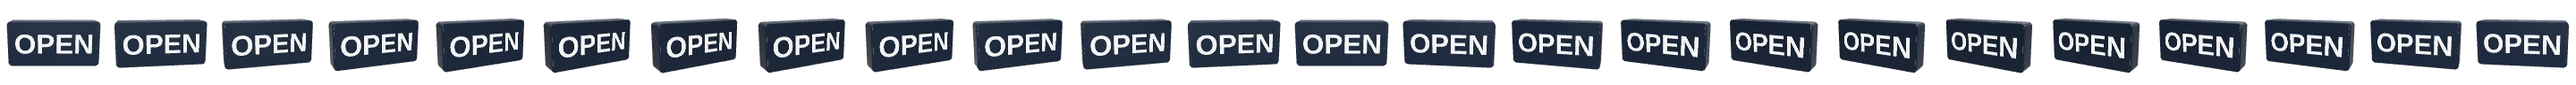
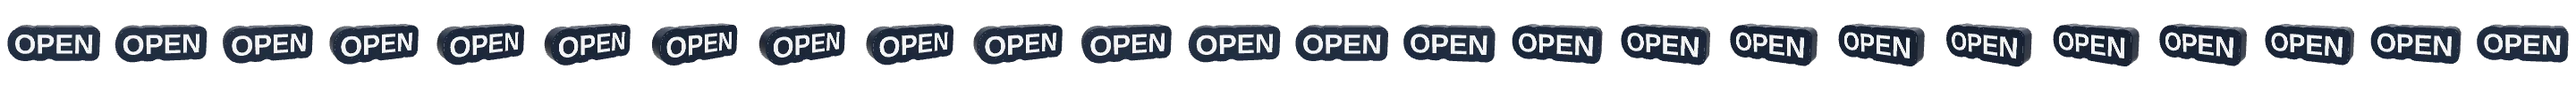
Sign boxes that follow the letters, with the cable out the back at one end
The sign enclosure's box is now, by default, the word's own outline: the
lettering grown by the margin, the gaps closed, the counters filled, and
far-apart lines tied together -- one rounded shape hugging the word, like
a channel-letter sign, only as big as the word needs. The rectangle stays
as an option, and the only one the wall mounts fit.

The cable leaves by the back at the right- or left-hand end, through a
notch in the lid's edge that the wall closes into a hole, placed where the
lid is widest near that end. The bottom-wall notch stays as an option and
now finds the bottom of any outline. The sign's tile icon is re-rendered
in the new shape.

Claude-Session: https://claude.ai/code/session_01PeehgHdDDPF9HxDfvra4HT

Changed region(s): [[0.0, 0.625, 1.0, 0.8438], [0.0, 0.2188, 1.0, 0.4062]]

diff --git a/public/index.html b/public/index.html
@@ -499,6 +499,17 @@
 
   <section>
     <h2>3 &middot; How it looks</h2>
+    <label class="field" data-for="sign" data-light="sign_shape"><span>Box shape</span>
+      <select id="sign_shape">
+        <option value="letters">Follows the letters</option>
+        <option value="box">Rectangle</option>
+      </select>
+    </label>
+    <p class="hint" data-for="sign">Follows the letters: the box is the word's own outline &mdash; every
+       letter grown by the margin, the gaps between them closed and the insides of the O's filled,
+       so the sign is one rounded shape hugging the word, the way a channel-letter sign is. The two
+       sliders below are then the most room the word can have, and the box comes out as big as the
+       word needs. Rectangle is the plain box, and the one the wall mounts fit.</p>
     <div class="field" data-for="stencil sign" data-light="plate"><span id="plate_label">Plate</span>
       <div class="slider"><input type="range" id="plate_w" min="30" max="250" step="5" value="120"><output id="plate_w_v">120 mm</output></div>
     </div>
@@ -542,25 +553,34 @@
     </div>
     <p class="hint" data-for="sign">Five lines of a 0.4 mm nozzle at the default: stiff enough to hold the
        lid without bowing, and opaque enough that the light leaves by the letters.</p>
-    <div class="field" data-for="sign" data-light="cable"><span>Cable notch</span>
+    <label class="field" data-for="sign" data-light="cable"><span>Cable out</span>
+      <select id="cable_side">
+        <option value="right">Through the back, right-hand end</option>
+        <option value="left">Through the back, left-hand end</option>
+        <option value="bottom">Through the bottom wall</option>
+      </select>
+    </label>
+    <div class="field" data-for="sign" data-light="cable"><span>Cable width</span>
       <div class="slider"><input type="range" id="cable" min="0" max="12" step="0.5" value="6"><output id="cable_v">6 mm</output></div>
     </div>
-    <p class="hint" data-for="sign">A square notch in the back edge of the bottom wall for the lead. It is
-       cut a lid deeper than it looks, so the cable passes under a lid that stays whole. 0 closes the
-       wall.</p>
+    <p class="hint" data-for="sign">Right and left are as you look at the lit front. Through the back, the
+       lead leaves by a notch in the edge of the lid at that end: open to the edge, so the cable drops
+       in rather than being threaded, and closed into a hole by the wall once the lid is in &mdash; so
+       nothing shows from the front. Through the bottom wall is a notch in the back edge of the
+       wall, cut a lid deeper so the cable passes under a lid that stays whole. 0 leaves no way out.</p>
     <label class="check" data-for="sign" data-light="lid"><input type="checkbox" id="lid" checked><span>Back lid</span></label>
     <p class="hint" data-for="sign">A plate that drops into a rebate in the back and stops flush on the
        ledge it leaves &mdash; a friction fit, so you can get it off again to change the strip. Stick the
        LEDs to the inside of it; it prints that face down, which is the flat one. Off leaves the back
        open.</p>
-    <label class="field" data-for="sign" data-light="mount"><span>Wall mount</span>
+    <label class="field" data-for="sign" data-shape="box" data-light="mount"><span>Wall mount</span>
       <select id="mount">
         <option value="none">None</option>
         <option value="tape">Tape pads</option>
         <option value="screw">Screw posts</option>
       </select>
     </label>
-    <p class="hint" data-for="sign">The back of this box is a lid held in by friction, so tape or a screw
+    <p class="hint" data-for="sign" data-shape="box">The back of this box is a lid held in by friction, so tape or a screw
        on the lid holds the <em>lid</em> &mdash; the case pulls off it and leaves the back on the wall.
        Both mounts here are part of the case instead: a post that rises off the inside of the face,
        comes up through a hole in the lid and finishes flush with the back, so the load goes into the
@@ -791,7 +811,7 @@ const FIELDS = ["name", "company", "phone", "role", "email", "kind", "tap", "tag
                 "tag_h", "tag_thick", "tag_mode", "rise", "link", "batch", "bed",
                 "look", "layout", "cap", "ring_d", "font",
                 "plate_w", "plate_h", "margin", "bridge", "thick",
-                "depth", "wall", "diffuse", "cable", "mount",
+                "depth", "wall", "diffuse", "cable", "mount", "sign_shape", "cable_side",
                 "pet_style", "pet_shape", "pet_size", "pet_sides", "pet_note",
                 "pet_collar", "pet_slot", "pet_link"];
 const COLOURS = ["c0", "c1", "c2", "c3"];
@@ -1653,7 +1673,8 @@ function signReadout(line) {
     line("lit", `${info.lit_area}% of the face, narrowest stroke ${mm(info.stroke)} mm`),
     line("inside", `${mm(info.clear)} mm of clear air for the strip` +
                    (info.lid ? `, behind a ${mm(info.lid_thick)} mm lid` : ", back open")),
-    info.cable ? line("cable notch", `${mm(info.cable)} mm, bottom wall`) : "",
+    info.cable ? line("cable", `${mm(info.cable)} mm, ` + ({ right: "out the back, right-hand end",
+      left: "out the back, left-hand end", bottom: "through the bottom wall" }[info.cable_side] || "")) : "",
     line("uses", `${info.volume.toFixed(2)} cm&sup3;` +
                  (info.parts.length > 1 ? " over both parts" : "")),
     info.nozzle ? line("nozzle", `${info.nozzle} mm or finer`) : "",
@@ -1864,6 +1885,7 @@ document.querySelectorAll("p.hint").forEach((hint, i) => {
   mark.setAttribute("aria-expanded", "false");
   if (hint.dataset.for) { box.dataset.for = hint.dataset.for; delete hint.dataset.for; }
   if (hint.dataset.style) { box.dataset.style = hint.dataset.style; delete hint.dataset.style; }
+  if (hint.dataset.shape) { box.dataset.shape = hint.dataset.shape; delete hint.dataset.shape; }
   hint.replaceWith(box);
   box.append(mark, fold);
   fold.append(hint);
@@ -2026,6 +2048,11 @@ function petSize() {
   $("pet_size").value = PET_SIZES[key];
   $("pet_size").dispatchEvent(new Event("input"));
 }
+/* A box that follows the letters has no plain border for a mount to live in. */
+$("sign_shape").addEventListener("change", () => {
+  if ($("sign_shape").value === "letters") $("mount").value = "none";
+  shapeChosen();
+});
 $("pet_style").addEventListener("change", () => { petSize(); shapeChosen(); materialFor(); queue(); });
 $("pet_shape").addEventListener("change", () => { petSize(); queue(); });
 $("pet_sides").addEventListener("change", () => spoolsChosen());
@@ -2044,7 +2071,8 @@ function shapeChosen() {
   if (kind !== "pet" && product) setShot("model");
   for (const el of document.querySelectorAll("[data-for]"))
     el.hidden = !el.dataset.for.split(" ").includes(kind) ||
-                (kind === "pet" && !!el.dataset.style && el.dataset.style !== style);
+                (kind === "pet" && !!el.dataset.style && el.dataset.style !== style) ||
+                (kind === "sign" && !!el.dataset.shape && el.dataset.shape !== $("sign_shape").value);
   $("shape_note").textContent = {
     fob: "The one that lives on a keyring, with an NFC tag sealed inside it. It grows if the tag or the QR code needs more room than 62 \u00d7 34 mm leaves them \u2014 but all five lines on a fob come out small, so leave the title or the email off it.",
     pet: "A collar tag: the pet's name on the front and the phone number \u2014 and a QR code, if you want one \u2014 on the back. Every letter is inlaid flush, so nothing wears off, and all the colour changes happen in the first and last three layers.",
@@ -2060,7 +2088,8 @@ function shapeChosen() {
                                       name: "The word", pet: "What it says" }[kind] || "Who you are");
   spoolsChosen();
   // The stencil's two plate sliders are the sign's face.
-  $("plate_label").textContent = kind === "sign" ? "Face" : "Plate";
+  $("plate_label").textContent = kind !== "sign" ? "Plate"
+    : $("sign_shape").value === "letters" ? "Most room for the word" : "Face";
   // A sign is not glued and has no halves: it has a lid that comes off.
   const labels = kind === "sign" ? ["Put together", "Lid off", "On the plate"]
                                  : ["Glued up", "Pulled apart", "On the plate"];

diff --git a/src/signbox.py b/src/signbox.py
@@ -31,11 +31,12 @@ the STL and the app's viewer all take them unchanged.
 import numpy as np
 import trimesh
 from shapely import affinity
-from shapely.geometry import Point
+from shapely.geometry import Point, Polygon
 from shapely.geometry import box as box_2d
 from shapely.ops import unary_union
 
 import cards
+import nametag
 import stencil
 import typefaces
 
@@ -87,6 +88,24 @@ CLEARANCE = 0.2
 # takes up the top LID mm of it, so the notch is cut that much deeper and the
 # cable still gets its full CABLE mm.  0 leaves the wall closed.
 CABLE = 6.0
+
+# The shape of the box.  "letters" follows the word: the lettering grown by the
+# margin, the gaps between letters closed, the counters filled -- one rounded
+# outline hugging the word, the way a channel-letter sign does.  "box" is the
+# rounded rectangle.
+SHAPES = ("letters", "box")
+
+# How far the gaps between letters are bridged when the outline is drawn, on
+# top of the margin.  Big enough that a word comes out as one shape rather
+# than a row of islands, and it rounds every inside corner by as much.
+JOIN = 8.0
+
+# Where the cable leaves.  "right" and "left" are as seen from the front, and
+# go out through the back: a notch in the edge of the lid at that end, open
+# to the edge so the cable drops in rather than being threaded, and the wall
+# closes it into a hole once the lid is in.  "bottom" is the old way, a
+# notch in the back edge of the bottom wall.
+CABLE_SIDES = ("right", "left", "bottom")
 
 # Clear air between the diffuser and the lid the strip is stuck to.  Less than
 # this and you can count the LEDs through the letters.
@@ -204,10 +223,53 @@ def mount_posts(kind, w, h, wall, margin, radius, inner, room):
     return posts, posts, what
 
 
+def contour(letters, margin, join=JOIN):
+    """The outline of a box that follows the word: every letter grown by
+    `margin`, the gaps between them closed by `join` and the inside corners
+    rounded by as much, then the counters filled so it is one solid shape.
+
+    A word whose letters are further apart than the join -- two words on two
+    lines, say -- is tied together the way a name keyring's loose dot is.
+    """
+    grown = unary_union(letters).buffer(margin + join, quad_segs=16)
+    outline = grown.buffer(-join, quad_segs=16)
+    if outline.geom_type == "MultiPolygon":
+        outline, _ = nametag.tie_together(outline, width=2.0 * margin)
+        outline = outline.buffer(2.0, quad_segs=16).buffer(-2.0, quad_segs=16)
+    if outline.geom_type == "MultiPolygon":
+        outline = max(outline.geoms, key=lambda g: g.area)
+    return Polygon(outline.exterior).simplify(0.02)
+
+
+def cable_notch(lid_poly, cable, side, edge=EDGE):
+    """A notch `cable` wide in the edge of the lid, at the `side` end.
+
+    The lid is built face down like the rest, so the right-hand end as seen
+    from the front is the lid's -x end.  The notch is placed where the lid is
+    widest near that end, so a letter-shaped lid does not get it cut into a
+    sliver, and runs in from the edge a cable and a margin deep.
+    """
+    x0, y0, x1, y1 = lid_poly.bounds
+    reach = cable + 2.0 * edge + 4.0
+    if side == "right":
+        end, strip = x0, box_2d(x0 - 1.0, y0 - 1.0, x0 + reach, y1 + 1.0)
+    else:
+        end, strip = x1, box_2d(x1 - reach, y0 - 1.0, x1 + 1.0, y1 + 1.0)
+    near = lid_poly.intersection(strip)
+    if near.is_empty:
+        raise ValueError("no room at that end of the lid for the cable")
+    cy = near.centroid.y
+    deep = cable + edge
+    if side == "right":
+        return box_2d(end - 1.0, cy - cable / 2.0, end + deep, cy + cable / 2.0)
+    return box_2d(end - deep, cy - cable / 2.0, end + 1.0, cy + cable / 2.0)
+
+
 def build(text="", svg=None, font=None, w=W, h=H, depth=DEPTH, wall=WALL,
           diffuse=DIFFUSE, opaque=OPAQUE, margin=MARGIN, radius=RADIUS,
           chamfer=CHAMFER, lid=True, lid_thick=LID, clearance=CLEARANCE,
-          cable=CABLE, mount="none", colours=cards.COLOURS, label=""):
+          cable=CABLE, mount="none", colours=cards.COLOURS, label="",
+          shape="box", cable_side="bottom"):
     """One sign enclosure, as printable parts plus the numbers worth knowing.
 
     Returns ([case, lid], info) in cards.build()'s shape -- or ([case], info)
@@ -234,6 +296,17 @@ def build(text="", svg=None, font=None, w=W, h=H, depth=DEPTH, wall=WALL,
     if mount not in MOUNTS:
         raise ValueError(f"no such mount: {mount!r} -- it is one of "
                          + ", ".join(MOUNTS))
+    shape = (shape or "box").strip().lower()
+    if shape not in SHAPES:
+        raise ValueError(f"no such shape: {shape!r} -- it is one of " + ", ".join(SHAPES))
+    cable_side = (cable_side or "bottom").strip().lower()
+    if cable_side not in CABLE_SIDES:
+        raise ValueError(f"no such cable exit: {cable_side!r} -- it is one of "
+                         + ", ".join(CABLE_SIDES))
+    if shape == "letters" and mount != "none":
+        raise ValueError("the wall mounts live in the plain border of the rectangular "
+                         "box, and a box that follows the letters has none -- pick the "
+                         "rectangle to mount it, or stick it up by its back")
     colours = tuple(colours or cards.COLOURS)
 
     if depth <= front + lid_thick + 2.0:
@@ -245,14 +318,7 @@ def build(text="", svg=None, font=None, w=W, h=H, depth=DEPTH, wall=WALL,
                          f"{margin:g} mm margin")
 
     outer = cards.rounded_rect(w, h, radius)
-    inner = outer.buffer(-wall)                  # the cavity, and the lit area
-    if inner.is_empty or inner.geom_type != "Polygon":
-        raise ValueError(f"a {wall:g} mm wall leaves nothing inside a "
-                         f"{w:g} x {h:g} mm box")
     room = outer.buffer(-margin)
-
-    post_case, post_lid, mount_what = mount_posts(
-        mount, w, h, wall, margin, radius, inner, room)
 
     face = typefaces.face(font)
     if svg:
@@ -273,6 +339,20 @@ def build(text="", svg=None, font=None, w=W, h=H, depth=DEPTH, wall=WALL,
     shapes = [affinity.scale(p, -1.0, 1.0, origin=(0, 0)) for p in shapes]
     letters = stencil.pieces(unary_union(shapes))
 
+    if shape == "letters":
+        # The box is the word's own outline, and the face is only as big as
+        # that -- w and h were the most room the lettering could have.
+        outer = contour(letters, margin)
+        x0, y0, x1, y1 = outer.bounds
+        w, h = x1 - x0, y1 - y0
+    inner = outer.buffer(-wall)                  # the cavity, and the lit area
+    if inner.is_empty or inner.geom_type != "Polygon":
+        raise ValueError(f"a {wall:g} mm wall leaves nothing inside a "
+                         f"{w:g} x {h:g} mm box")
+
+    post_case, post_lid, mount_what = mount_posts(
+        mount, w, h, wall, margin, radius, inner, room)
+
     # The lid's rebate: the last lid_thick mm of the wall is taken back to its
     # outer half, and the step that leaves is what the lid sits on.
     rebate = inner.buffer(wall / 2.0)
@@ -287,13 +367,18 @@ def build(text="", svg=None, font=None, w=W, h=H, depth=DEPTH, wall=WALL,
         cuts += cards.prisms(
             list(step.geoms) if step.geom_type == "MultiPolygon" else [step],
             depth - lid_thick, lid_thick + 1.0)
-    if cable > 0:
+    if cable > 0 and cable_side == "bottom":
         if cable > inner.bounds[2] - inner.bounds[0]:
             raise ValueError(f"a {cable:g} mm cable notch is wider than the wall it "
                              f"goes through")
         # Open to the back and open to the outside: no bridge, no support, and
         # the cable drops in rather than being threaded.
-        notch = box_2d(-cable / 2.0, -h / 2.0 - 1.0, cable / 2.0, -h / 2.0 + wall + 1.0)
+        # At the bottom of the outline: the middle of a rectangle's bottom
+        # edge, or wherever a letter-shaped box comes lowest.
+        ox0, oy0, ox1, oy1 = outer.bounds
+        low = outer.intersection(box_2d(ox0 - 1.0, oy0 - 1.0, ox1 + 1.0, oy0 + 1.0))
+        nx = low.centroid.x if not low.is_empty else (ox0 + ox1) / 2.0
+        notch = box_2d(nx - cable / 2.0, oy0 - 1.0, nx + cable / 2.0, oy0 + wall + 1.0)
         cuts += cards.prisms([notch], depth - lid_thick - cable, lid_thick + cable + 1.0)
 
     # The face: the letters taken out of the opaque layer, and the diffuser
@@ -310,7 +395,8 @@ def build(text="", svg=None, font=None, w=W, h=H, depth=DEPTH, wall=WALL,
         lit_poly = inner.difference(unary_union(post_case).buffer(MOUNT_CLEAR))
     cuts += cards.prisms([lit_poly], front - diffuse, diffuse)
 
-    body = shell(w, h, radius, outer, inner, depth, front, chamfer)
+    body = shell(w, h, radius, outer, inner, depth, front,
+                 chamfer if shape == "box" else 0.0)
     if post_case:
         # Unioned before the cuts, so the cable notch goes through a pad in its
         # way rather than the cable having to.
@@ -341,6 +427,10 @@ def build(text="", svg=None, font=None, w=W, h=H, depth=DEPTH, wall=WALL,
         # than the lid, so the cable passes under a lid that stays whole --
         # which is what holds the cable in and keeps the light off the wall.
         face_poly = rebate.buffer(-clearance)
+        if cable > 0 and cable_side != "bottom":
+            face_poly = face_poly.difference(cable_notch(face_poly, cable, cable_side))
+            if face_poly.geom_type == "MultiPolygon":
+                face_poly = max(face_poly.geoms, key=lambda g: g.area)
         if post_lid:
             face_poly = face_poly.difference(
                 unary_union(post_lid).buffer(MOUNT_CLEAR))
@@ -374,6 +464,7 @@ def build(text="", svg=None, font=None, w=W, h=H, depth=DEPTH, wall=WALL,
         lid=bool(lid), lid_thick=round(lid_thick, 2) if lid else None,
         clearance=round(clearance, 2) if lid else None,
         cable=round(cable, 2) if cable else None,
+        cable_side=cable_side if cable else None, shape=shape,
         mount=mount, mount_what=mount_what, mounts=len(post_case),
         margin=round(margin, 2), radius=round(radius, 2),
         face=cards.FACE, chamfer=round(chamfer, 2),

diff --git a/src/app.py b/src/app.py
@@ -55,7 +55,8 @@ GEOMETRY = ("kind", "name", "company", "phone", "role", "email", "tap", "tag_w",
             "plate_w", "plate_h", "margin", "bridge", "thick",
             "depth", "wall", "diffuse", "lid", "cable", "mount",
             "pet_shape", "pet_style", "pet_size", "pet_sides", "pet_note",
-            "pet_link", "pet_border", "pet_collar", "pet_slot")
+            "pet_link", "pet_border", "pet_collar", "pet_slot",
+            "sign_shape", "cable_side")
 
 # The shapes the page can ask for.  The business card is not among them any
 # more: it is archived -- the code is still in src/cards.py and
@@ -290,6 +291,10 @@ def model(params):
                            margin=num("margin", signbox.MARGIN),
                            cable=num("cable", signbox.CABLE),
                            mount=params.get("mount") or "none",
+                           # The box follows the letters unless asked for the
+                           # rectangle, and the cable leaves by the back.
+                           shape=params.get("sign_shape") or "letters",
+                           cable_side=params.get("cable_side") or "right",
                            lid=bool(params.get("lid", True)),
                            colours=colours)
                 if params.get("batch"):

diff --git a/src/gen_tile_icons.py b/src/gen_tile_icons.py
@@ -57,7 +57,7 @@ ICONS = {
     "pet":     dict(build=lambda: pettag.build("Dino", phone="(555) 214-8890",
                                                shape="bone"),
                     colours=(INK, FLAME, PAPER, FLAME), ring=True),
-    "sign":    dict(build=lambda: signbox.build("OPEN", lid=False),
+    "sign":    dict(build=lambda: signbox.build("OPEN", lid=False, shape="letters"),
                     colours=(INK, INK, PAPER, PAPER), glow=("primary",)),
     "stencil": dict(build=lambda: stencil.build("SHOP"),
                     colours=(FLAME, FLAME, FLAME, FLAME)),

diff --git a/README.md b/README.md
@@ -1054,6 +1054,26 @@ whose counters fall out on the bed.
 
 ## The box
 
+**By default the box follows the letters** (`shape="letters"`): the
+lettering grown by the margin, the gaps between letters closed, the inside
+corners rounded and the counters filled.  The sign is one rounded shape
+hugging the word, the way a channel-letter sign is, and it is only as big as
+the word needs; the two size sliders become the most room the word can have.
+Letters too far apart to close up, such as two words on two lines, are tied
+together the way a name keyring's loose dot is.  The walls, diffuser, lid
+rebate and lid all follow the outline.  Wall mounts need the plain border of
+the rectangular box (`shape="box"`), so the form only offers them there.
+
+**The cable leaves by the back, at one end** (`cable_side="right"` or
+`"left"`, as you look at the lit front).  It goes through a notch in the edge
+of the lid at that end.  The notch is open to the edge so the cable drops in
+rather than being threaded, and the wall closes it into a hole once the lid
+is in, so nothing shows from the front.  It is placed where the lid is widest
+near that end, so a letter-shaped lid is not cut into a sliver.
+`cable_side="bottom"` keeps the notch in the back edge of the bottom wall.
+
+The rectangular box is described below.
+
 | | |
 |---|---|
 | Face | 120 x 60 mm by default, any size you like |
